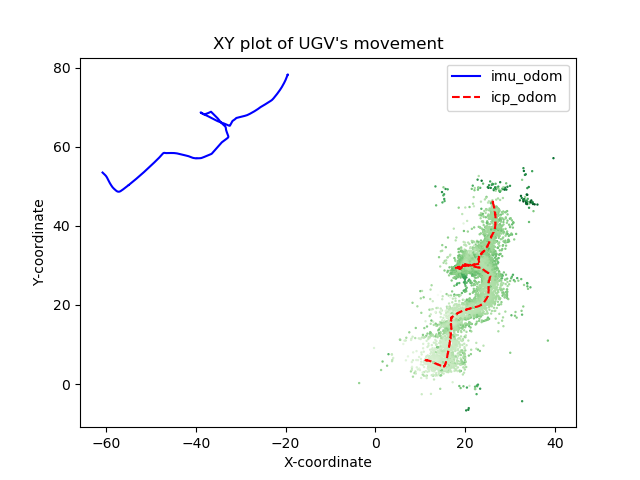
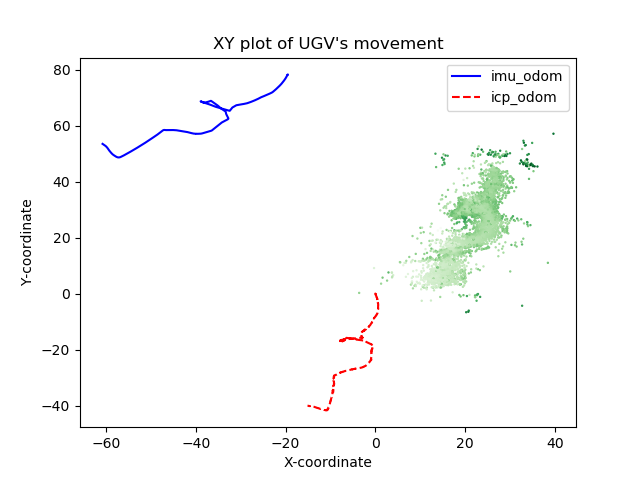
new lines of start and end of moving

diff --git a/nodes/tf_reader.py b/nodes/tf_reader.py
@@ -47,16 +47,17 @@ def create_graphs(bag):
                 cloud_combined.append(transformed_vectors)
         except ExtrapolationException:
             continue
+    icp = move_coordinates_to_the_origin(np.vstack([icp_x, icp_y, icp_z]).T)
     if len(cloud_combined) > 0:
-        speeds = get_speeds_one_period(icp_x, icp_y, icp_z, saved_times)
+        speeds = get_speeds_one_period(icp[:, 0], icp[:, 1], icp[:, 2], saved_times)
         start_of_moving, end_of_moving = find_start_and_end_of_moving(speeds, saved_times)
-        create_graph_xy_and_point_cloud(cloud_combined, icp_x, icp_y, odom_x, odom_y)
-        create_graph_x_over_time(icp_x, odom_x, saved_times)
-        create_graph_y_over_time(icp_y, odom_y, saved_times)
-        create_graph_z_over_time(icp_z, odom_z, saved_times)
-        create_graph_distance_over_time(icp_x, icp_y, icp_z, odom_x, odom_y, odom_z, saved_times, start_of_moving,
-                                        end_of_moving)
-        write_info_to_file(get_distances(icp_x, icp_y, icp_z), start_of_moving, end_of_moving, speeds)
+        create_graph_xy_and_point_cloud(cloud_combined, icp[:, 0], icp[:, 1], odom_x, odom_y)
+        create_graph_x_over_time(icp[:, 0], odom_x, saved_times)
+        create_graph_y_over_time(icp[:, 1], odom_y, saved_times)
+        create_graph_z_over_time(icp[:, 2], odom_z, saved_times)
+        create_graph_distance_over_time(icp[:, 0], icp[:, 1], icp[:, 2], odom_x, odom_y, odom_z, saved_times,
+                                        start_of_moving, end_of_moving)
+        write_info_to_file(get_distances(icp[:, 0], icp[:, 1], icp[:, 2]), start_of_moving, end_of_moving, speeds)
         
 
 def slots(msg):
